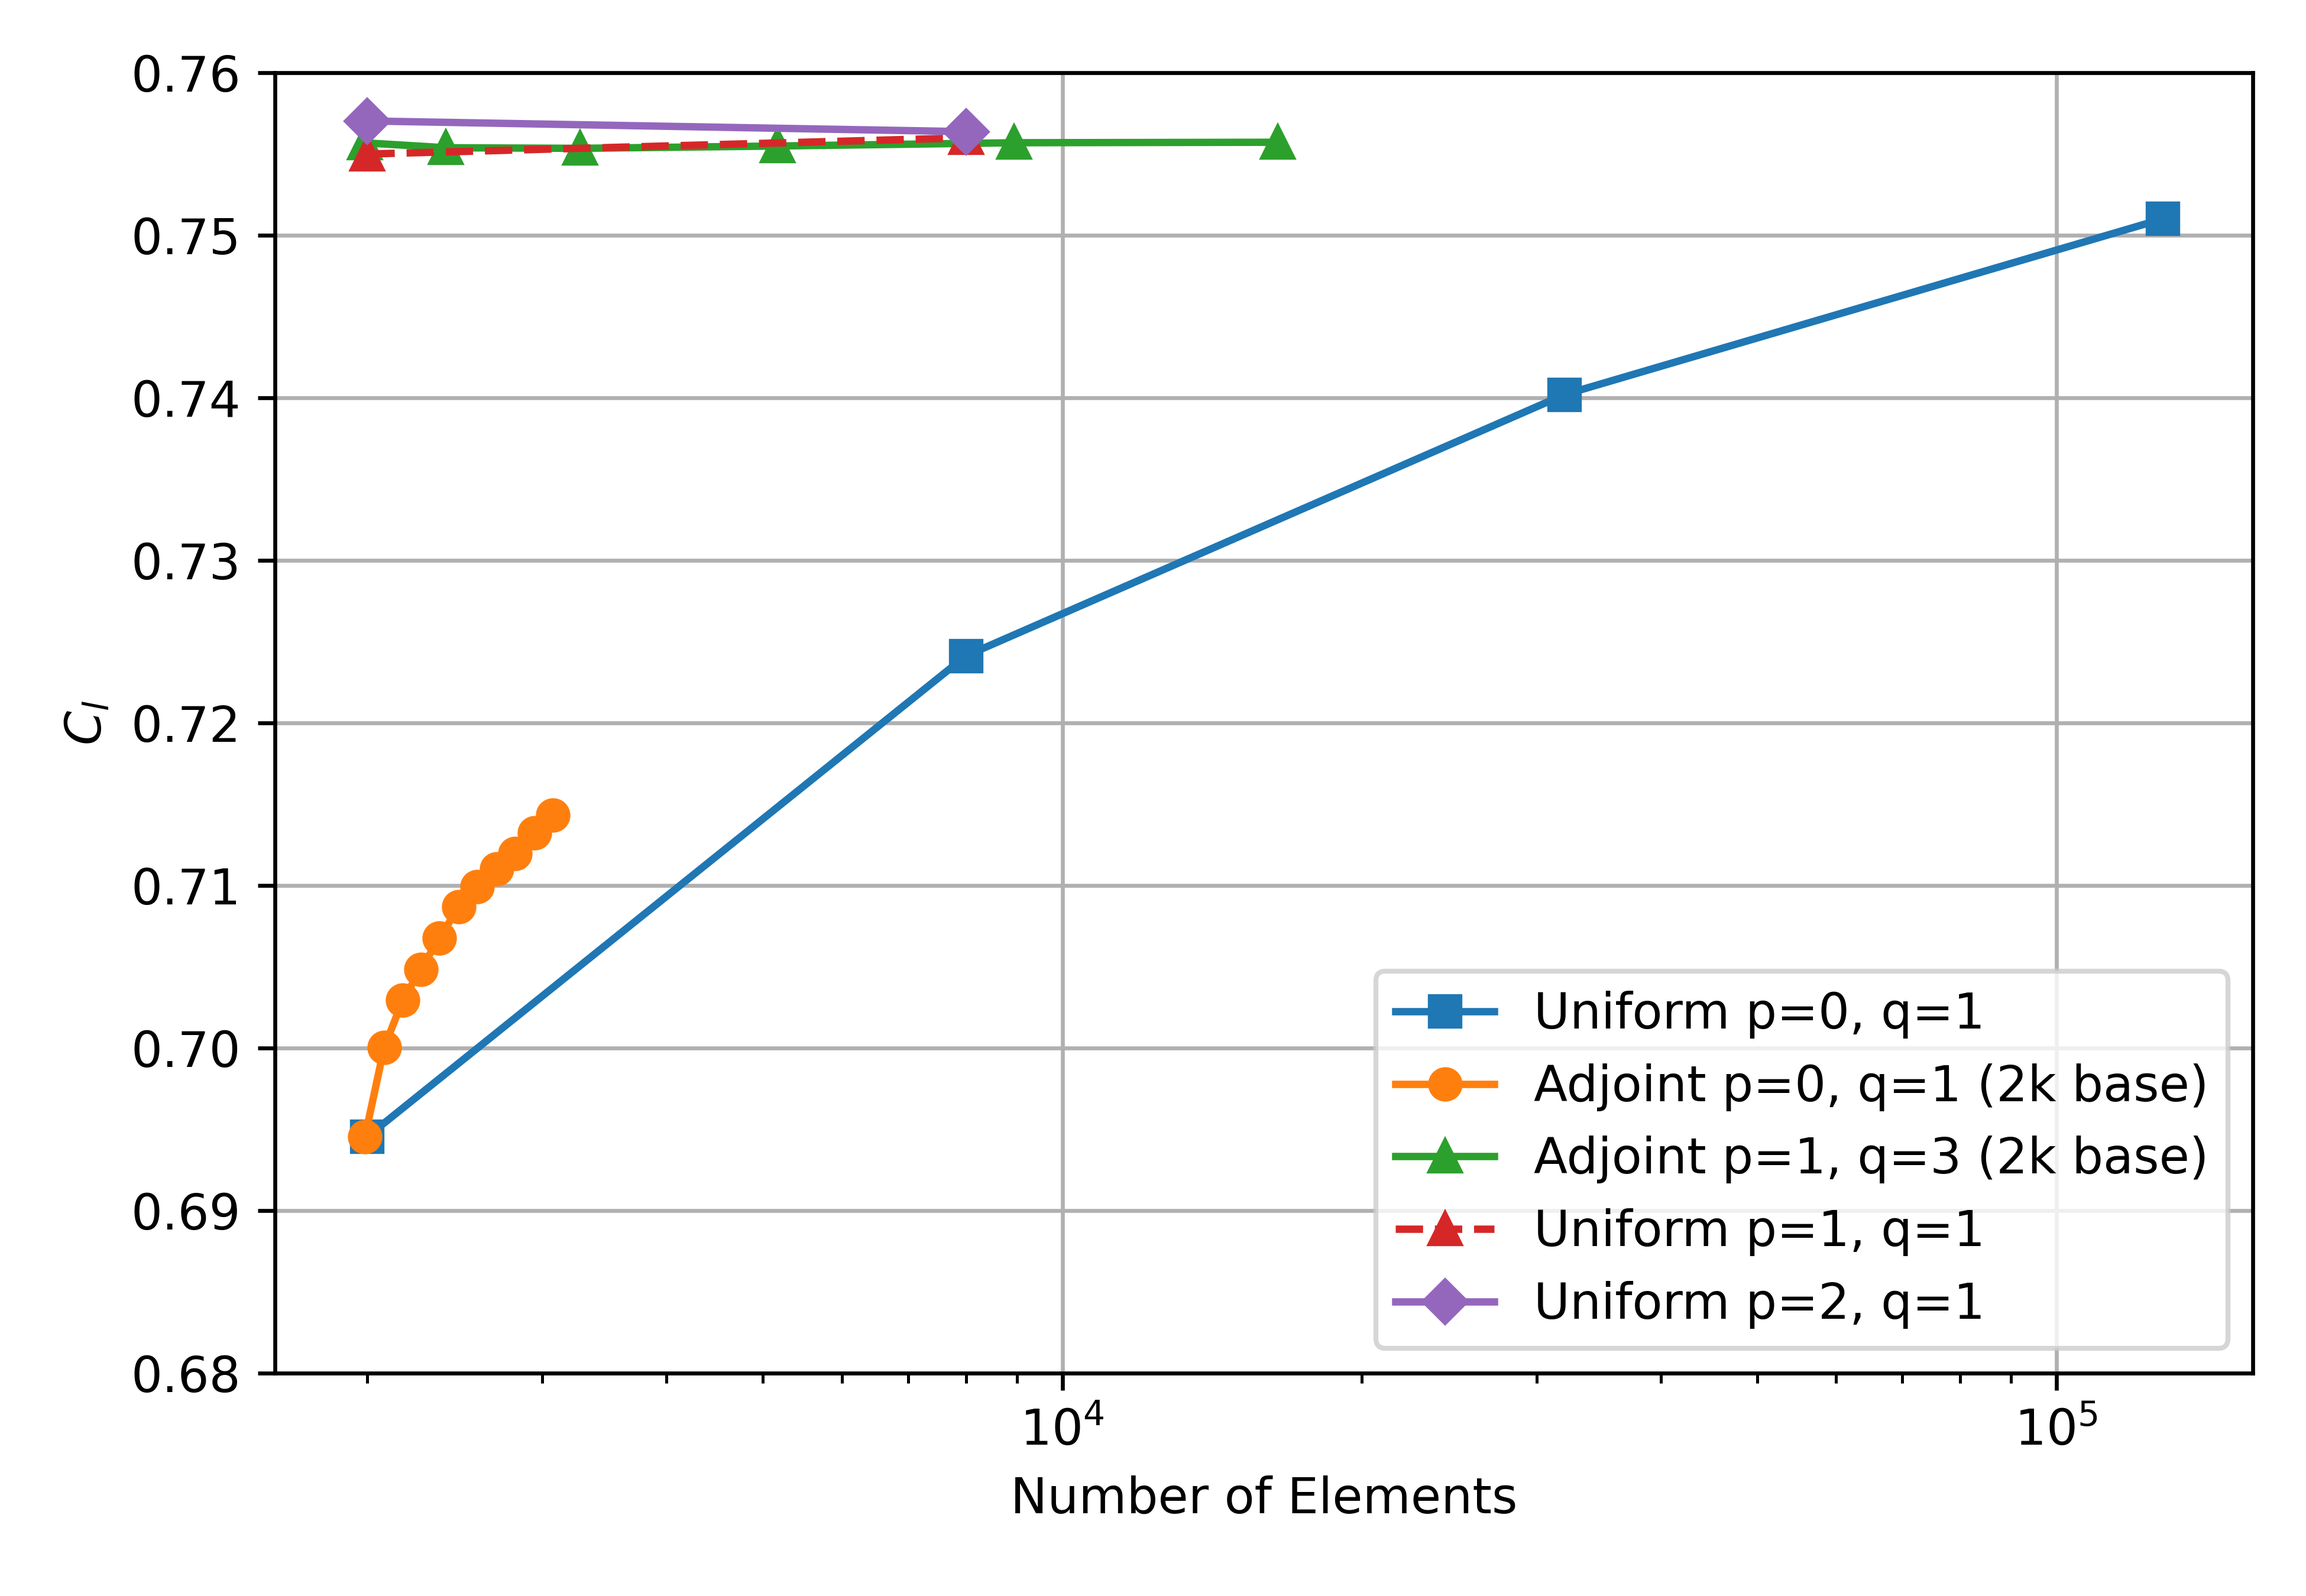
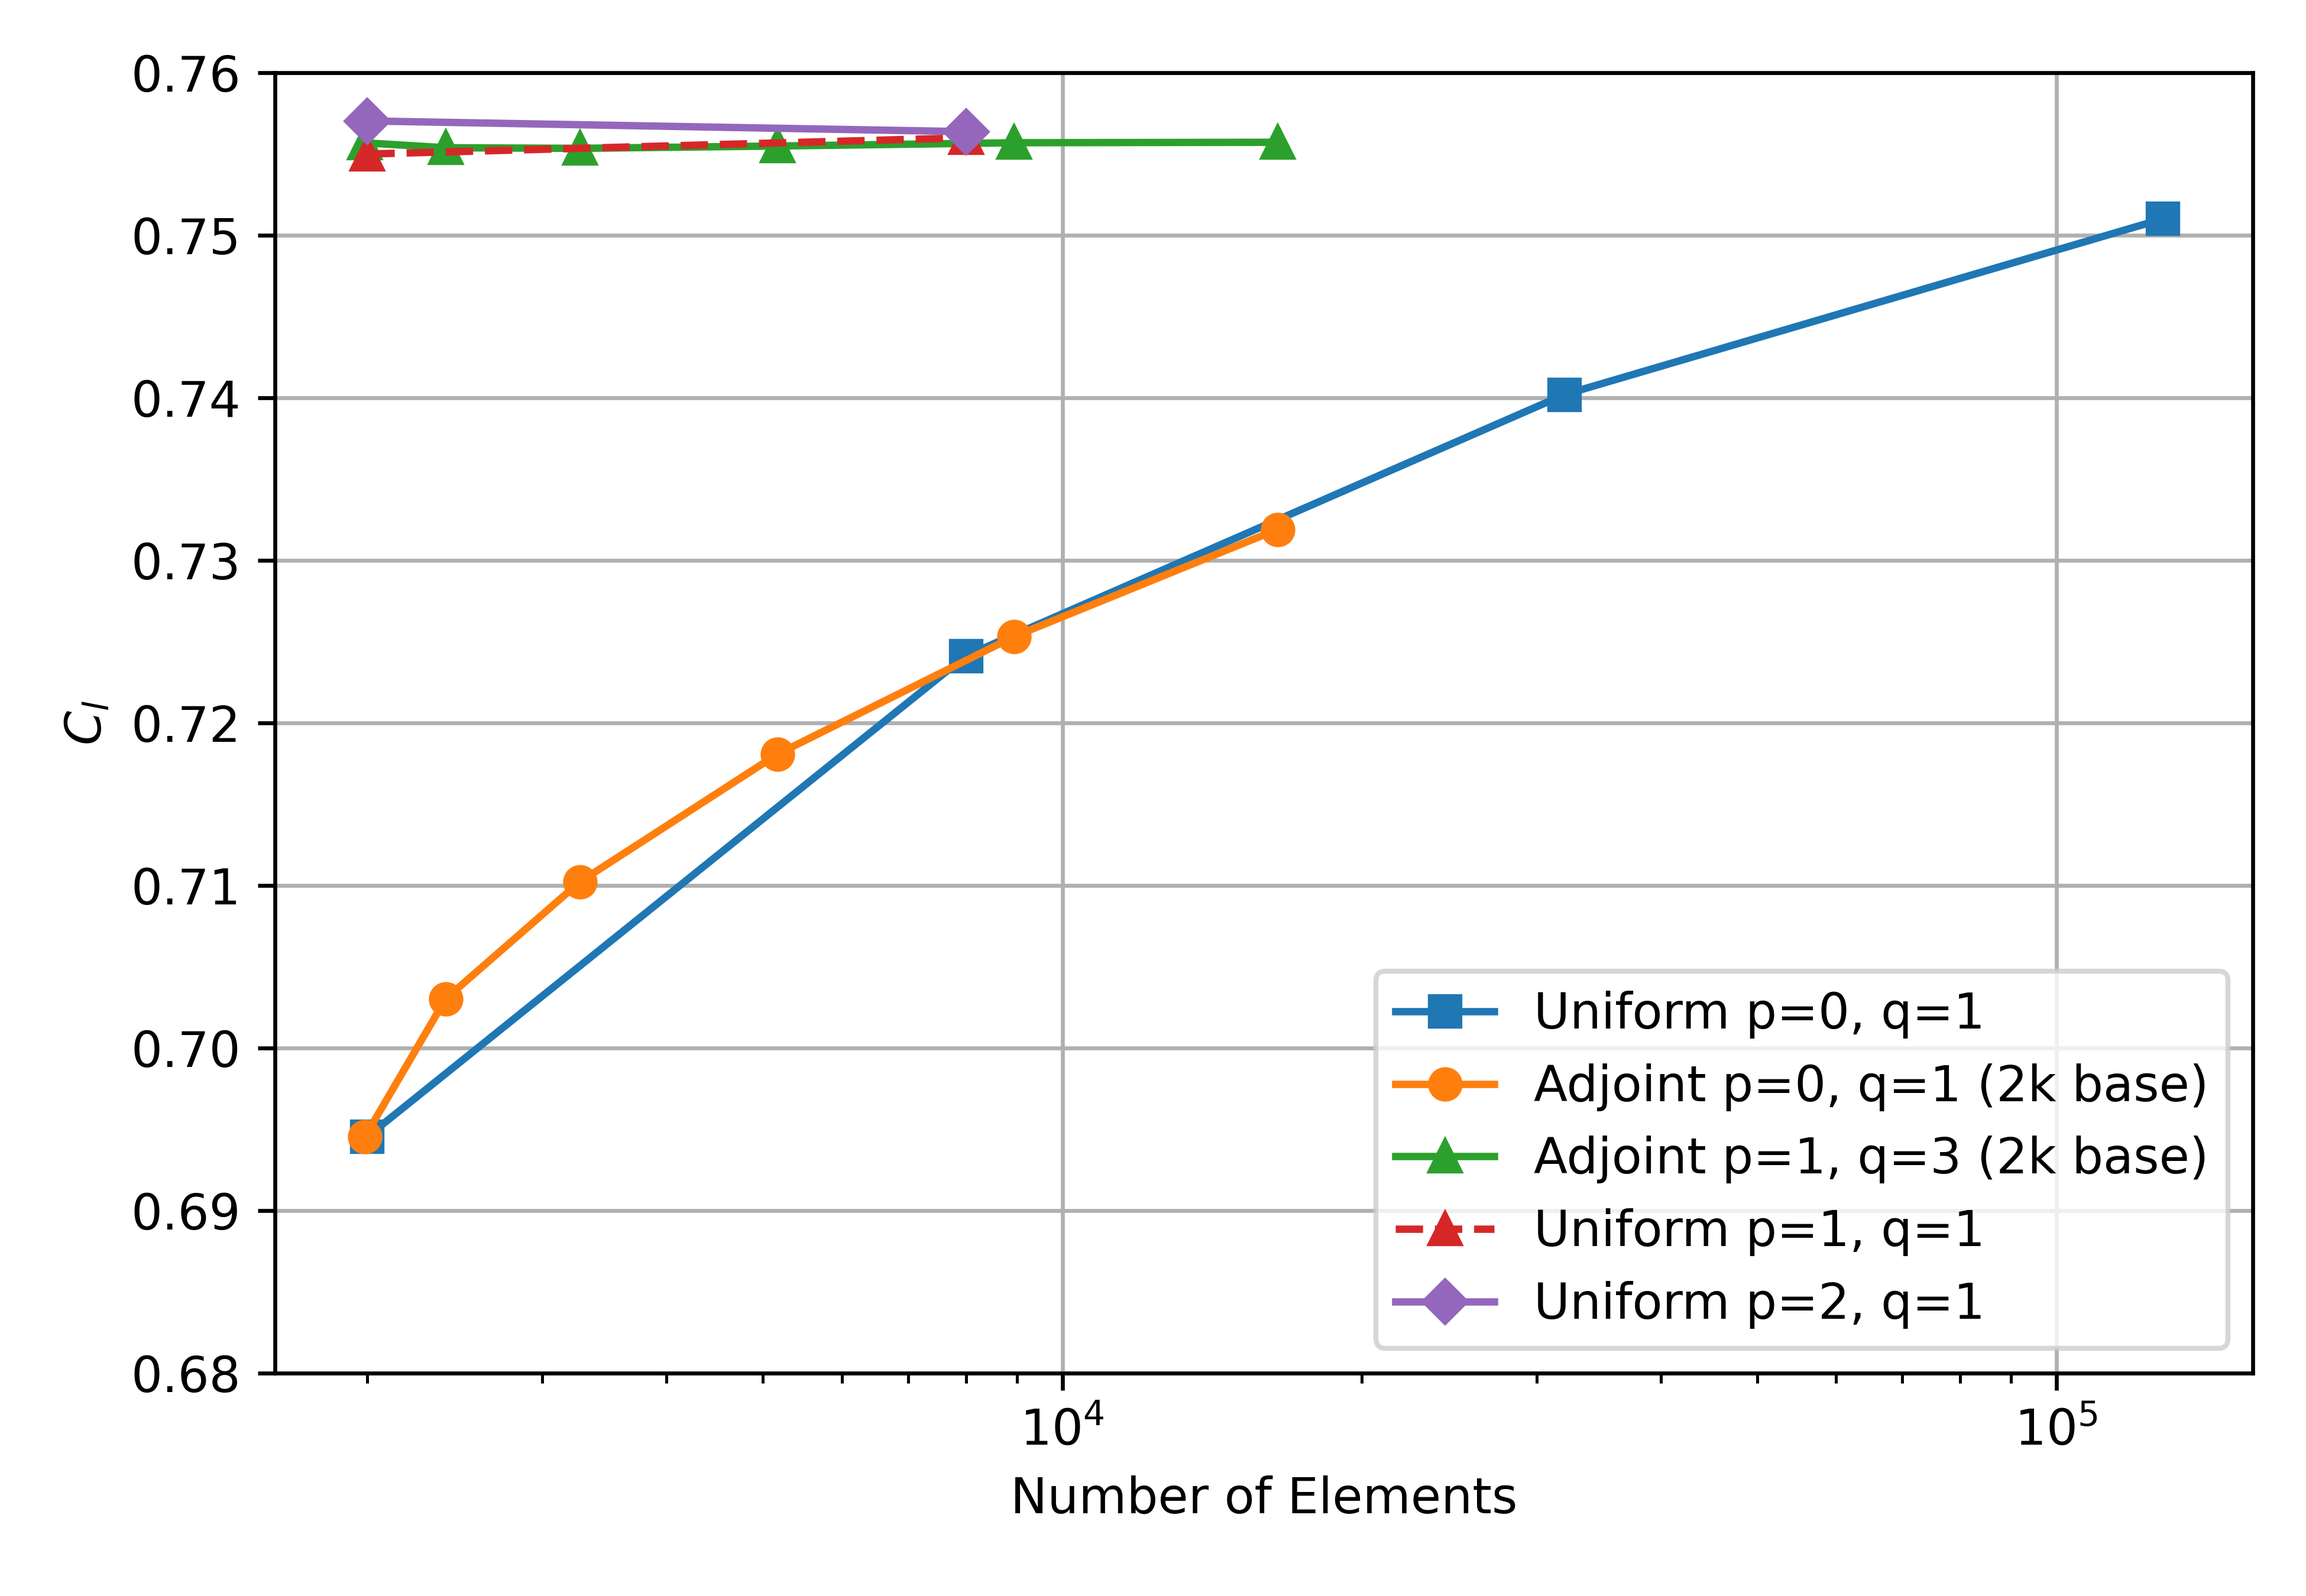
one more thing

diff --git a/Project4/fig_cl.py b/Project4/fig_cl.py
@@ -9,20 +9,42 @@ import numpy as np
 x_u0 = np.array([2000, 8000, 32000, 128000])
 y_u0 = np.array([0.694549, 0.724121, 0.740194, 0.751011])
 
+"""
+sorry, use this value of cl at p=0, q=1 for the 2k base run instead for the below to correct
+
+\begin{table}[h!]
+\centering
+\caption{Mesh adaptation progression using adjoint-based indicators, impact of solution order.}
+\label{tab:mesh_adaptation}
+
+\resizebox{\columnwidth}{!}{%
+\begin{tabular}{ccccc}
+\toprule
+Cycle & Elem ($p=0$) & $C_l$ ($p=0, q=1$) & $C_l$ ($p=1, q=3$) \\
+\midrule
+0 & 1989  & 0.694549 & 0.755684 \\
+1 & 2407  & 0.703027 & 0.755384 \\
+2 & 3313  & 0.710215 & 0.755347 \\
+3 & 5175  & 0.718072 & 0.755489 \\
+4 & 9077  & 0.725317 & 0.755692 \\
+5 & 16587 & 0.731905 & 0.755721 \\
+\bottomrule
+\end{tabular}%
+}
+\end{table}
+
+"""
+
+
 # Adjoint p=0 (UPDATED: 2k, 5% adapt run)
-x_a0 = np.array([1989, 2079, 2171, 2263, 2364, 2472, 2579, 2699, 2816, 2946, 3072])
+x_a0 = np.array([1989, 2398, 3271, 5170, 8949, 16468])
 y_a0 = np.array([
-    0.694548970,
-    0.700022995,
-    0.702936375,
-    0.704844044,
-    0.706772931,
-    0.708681276,
-    0.709920438,
-    0.711026161,
-    0.711971213,
-    0.713213010,
-    0.714309284
+    0.694549,
+    0.703027,
+    0.710215,
+    0.718072,
+    0.725317,
+    0.731905
 ])
 
 # Adjoint p=1 (UPDATED: 2k p=1, q=3 run)
